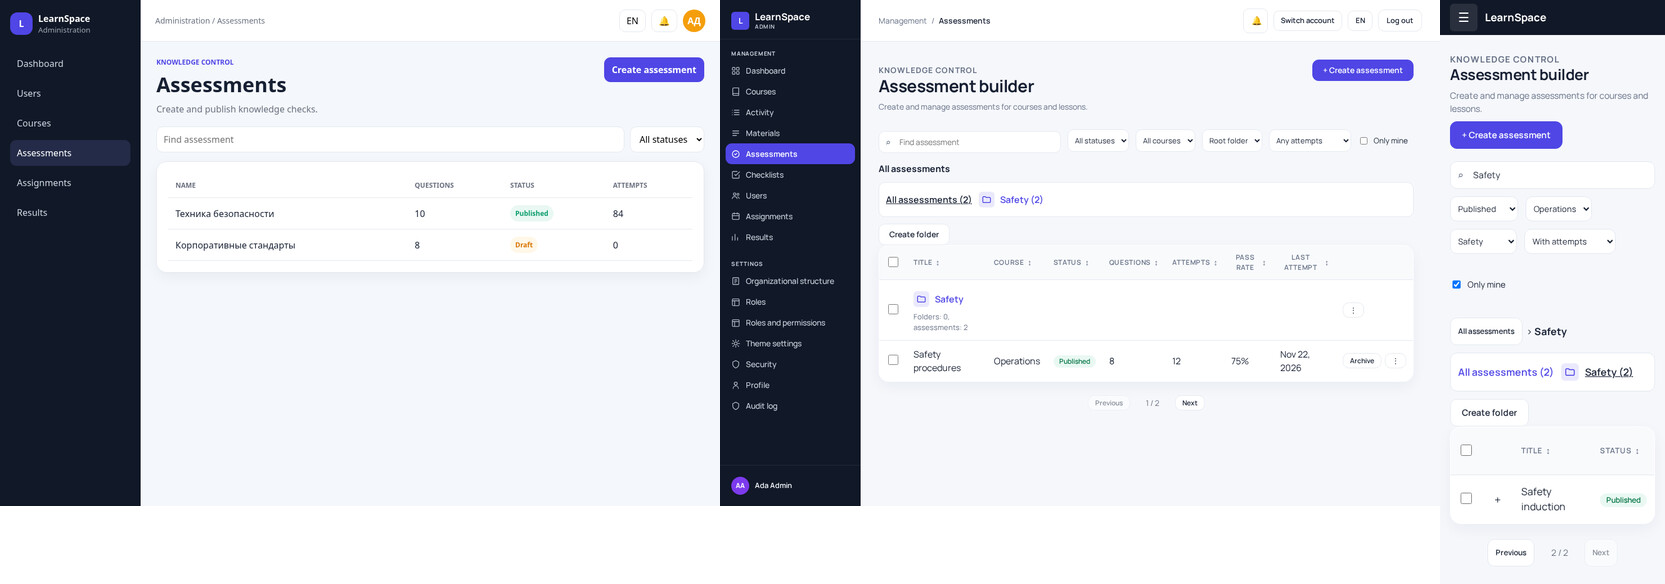
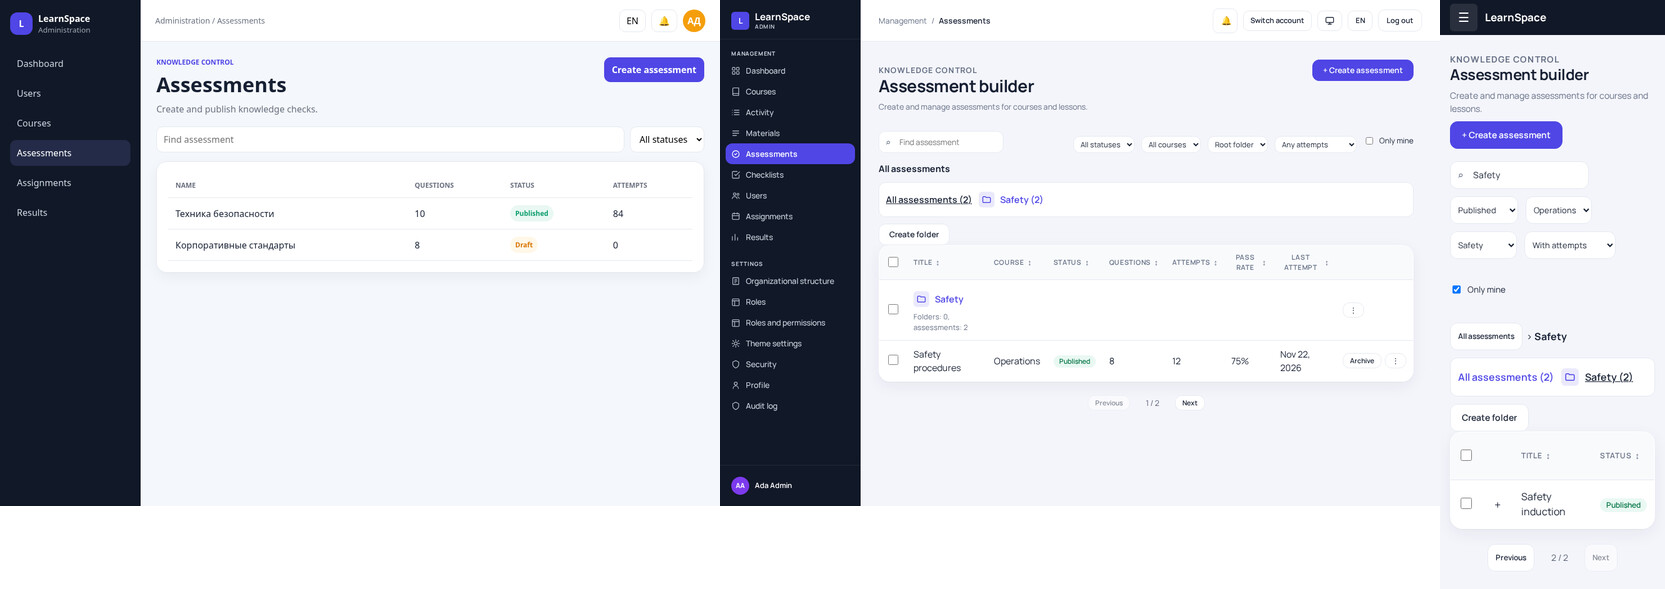
Preserve assessment filters and reuse toolbar styles

diff --git a/apps/web/src/app/AdminAssessmentBuilderPage.tsx b/apps/web/src/app/AdminAssessmentBuilderPage.tsx
@@ -248,35 +248,35 @@ export function AdminAssessmentBuilderPage() {
       </div>
     )}
 
-    <Toolbar className="assessment-list-toolbar"
+    <Toolbar
       left={<SearchInput value={list.search} onChange={(search) => list.set({ search }, true)}
         placeholder={t('admin.assessmentBuilder.searchPlaceholder')} />}
       right={<>
-        <select className="admin-status-select" aria-label={t('admin.assessmentBuilder.allStatuses')}
+        <div><select className="admin-status-select" aria-label={t('admin.assessmentBuilder.allStatuses')}
           value={list.status} onChange={(event) => list.set({ status: event.target.value })}>
           <option value="">{t('admin.assessmentBuilder.allStatuses')}</option>
           {ASSESSMENT_STATUSES.map((status) => <option key={status} value={status}>{statusLabels[status]}</option>)}
-        </select>
-        <select className="admin-status-select" aria-label={t('admin.assessmentBuilder.list.course')}
+        </select></div>
+        <div><select className="admin-status-select" aria-label={t('admin.assessmentBuilder.list.course')}
           value={list.course} onChange={(event) => list.set({ course: event.target.value })}>
           <option value="">{t('admin.assessmentBuilder.list.allCourses')}</option>
           <option value="standalone">{t('admin.assessmentBuilder.list.standalone')}</option>
           {data.courses.map((course) => <option key={course.id} value={course.id}>{course.title}</option>)}
-        </select>
-        <select className="admin-status-select" aria-label={t('admin.checklists.col.folder')}
+        </select></div>
+        <div><select className="admin-status-select" aria-label={t('admin.checklists.col.folder')}
           value={list.folder} onChange={(event) => list.set({ folder: event.target.value })}>
           <option value="all">{t('admin.assessmentBuilder.list.allFolders')}</option>
           <option value="root">{t('admin.assessmentBuilder.list.root')}</option>
           {folderRows(library.data?.folders ?? []).map(({ folder, level }) => <option key={folder.id} value={folder.id}>
             {'– '.repeat(level - 1)}{folder.name}
           </option>)}
-        </select>
-        <select className="admin-status-select" aria-label={t('admin.assessmentBuilder.col.attempts')}
+        </select></div>
+        <div><select className="admin-status-select" aria-label={t('admin.assessmentBuilder.col.attempts')}
           value={list.attempts} onChange={(event) => list.set({ attempts: event.target.value })}>
           <option value="">{t('admin.assessmentBuilder.list.anyAttempts')}</option>
           <option value="with">{t('admin.assessmentBuilder.list.withAttempts')}</option>
           <option value="without">{t('admin.assessmentBuilder.list.withoutAttempts')}</option>
-        </select>
+        </select></div>
         <label className="admin-checkbox-field"><input type="checkbox" checked={list.mine}
           onChange={(event) => list.set({ mine: event.target.checked ? 'true' : '' })} />
           {t('admin.assessmentBuilder.list.mine')}</label>

diff --git a/apps/web/src/app/assessment-builder/useAssessmentList.ts b/apps/web/src/app/assessment-builder/useAssessmentList.ts
@@ -1,4 +1,4 @@
-import { useCallback, useEffect, useRef, useState } from 'react';
+import { useCallback, useEffect, useState } from 'react';
 import { useSearchParams } from 'react-router-dom';
 import { apiRequest } from '../../shared/apiClient.js';
 import type { DataTableSort } from '../../shared/ui.js';
@@ -18,7 +18,6 @@ const emptyPage: AssessmentPage = { items: [], total: 0, page: 1, pageSize: 25 }
 
 export function useAssessmentList(staleFolder: boolean) {
   const [params, setParams] = useSearchParams();
-  const pendingParams = useRef<{ source: URLSearchParams; next: URLSearchParams } | null>(null);
   const [revision, setRevision] = useState(0);
   const [loaded, setLoaded] = useState<{ key: string; data: AssessmentPage | null } | null>(null);
   const search = (params.get('search') ?? '').slice(0, 200);
@@ -48,17 +47,15 @@ export function useAssessmentList(staleFolder: boolean) {
   const key = `${path}:${revision}`;
 
   const set = useCallback((changes: Record<string, string>, replace = false) => {
-    // Several controls can change before the router commits a navigation.
-    const pending = pendingParams.current;
-    const next = new URLSearchParams(pending?.source === params ? pending.next : params);
+    // BrowserRouter updates history before React commits the corresponding render.
+    const next = new URLSearchParams(window.location.search);
     if (!Object.hasOwn(changes, 'page')) next.delete('page');
     for (const [name, value] of Object.entries(changes)) {
       if (value) next.set(name, value);
       else next.delete(name);
     }
-    pendingParams.current = { source: params, next };
     setParams(next, { replace });
-  }, [params, setParams]);
+  }, [setParams]);
 
   useEffect(() => {
     const controller = new AbortController();

diff --git a/apps/web/src/app/assessment-builder/useAssessmentFolders.ts b/apps/web/src/app/assessment-builder/useAssessmentFolders.ts
@@ -42,12 +42,10 @@ export function useAssessmentFolders(t: TFunction) {
   }, [reload]);
 
   function select(id: string | null, replace = false) {
-    setParams((previous) => {
-      const next = new URLSearchParams(previous);
-      next.set('folder', id ?? 'root');
-      next.delete('page');
-      return next;
-    }, { replace });
+    const next = new URLSearchParams(window.location.search);
+    next.set('folder', id ?? 'root');
+    next.delete('page');
+    setParams(next, { replace });
   }
 
   useEffect(() => {

diff --git a/apps/web/src/styles/admin.css b/apps/web/src/styles/admin.css
@@ -1499,11 +1499,6 @@
   gap: 12px;
 }
 
-.assessment-list-toolbar .admin-toolbar__left { flex: 1 1 15rem; min-width: 0; }
-.assessment-list-toolbar .admin-toolbar__left > * { flex: 1; }
-.assessment-list-toolbar .admin-toolbar__right { flex: 2 1 28rem; align-items: center; }
-.assessment-list-toolbar select { inline-size: auto; max-inline-size: 100%; min-block-size: var(--control-size-md); }
-
 .admin-users-filter {
   display: grid;
   gap: var(--space-1);
